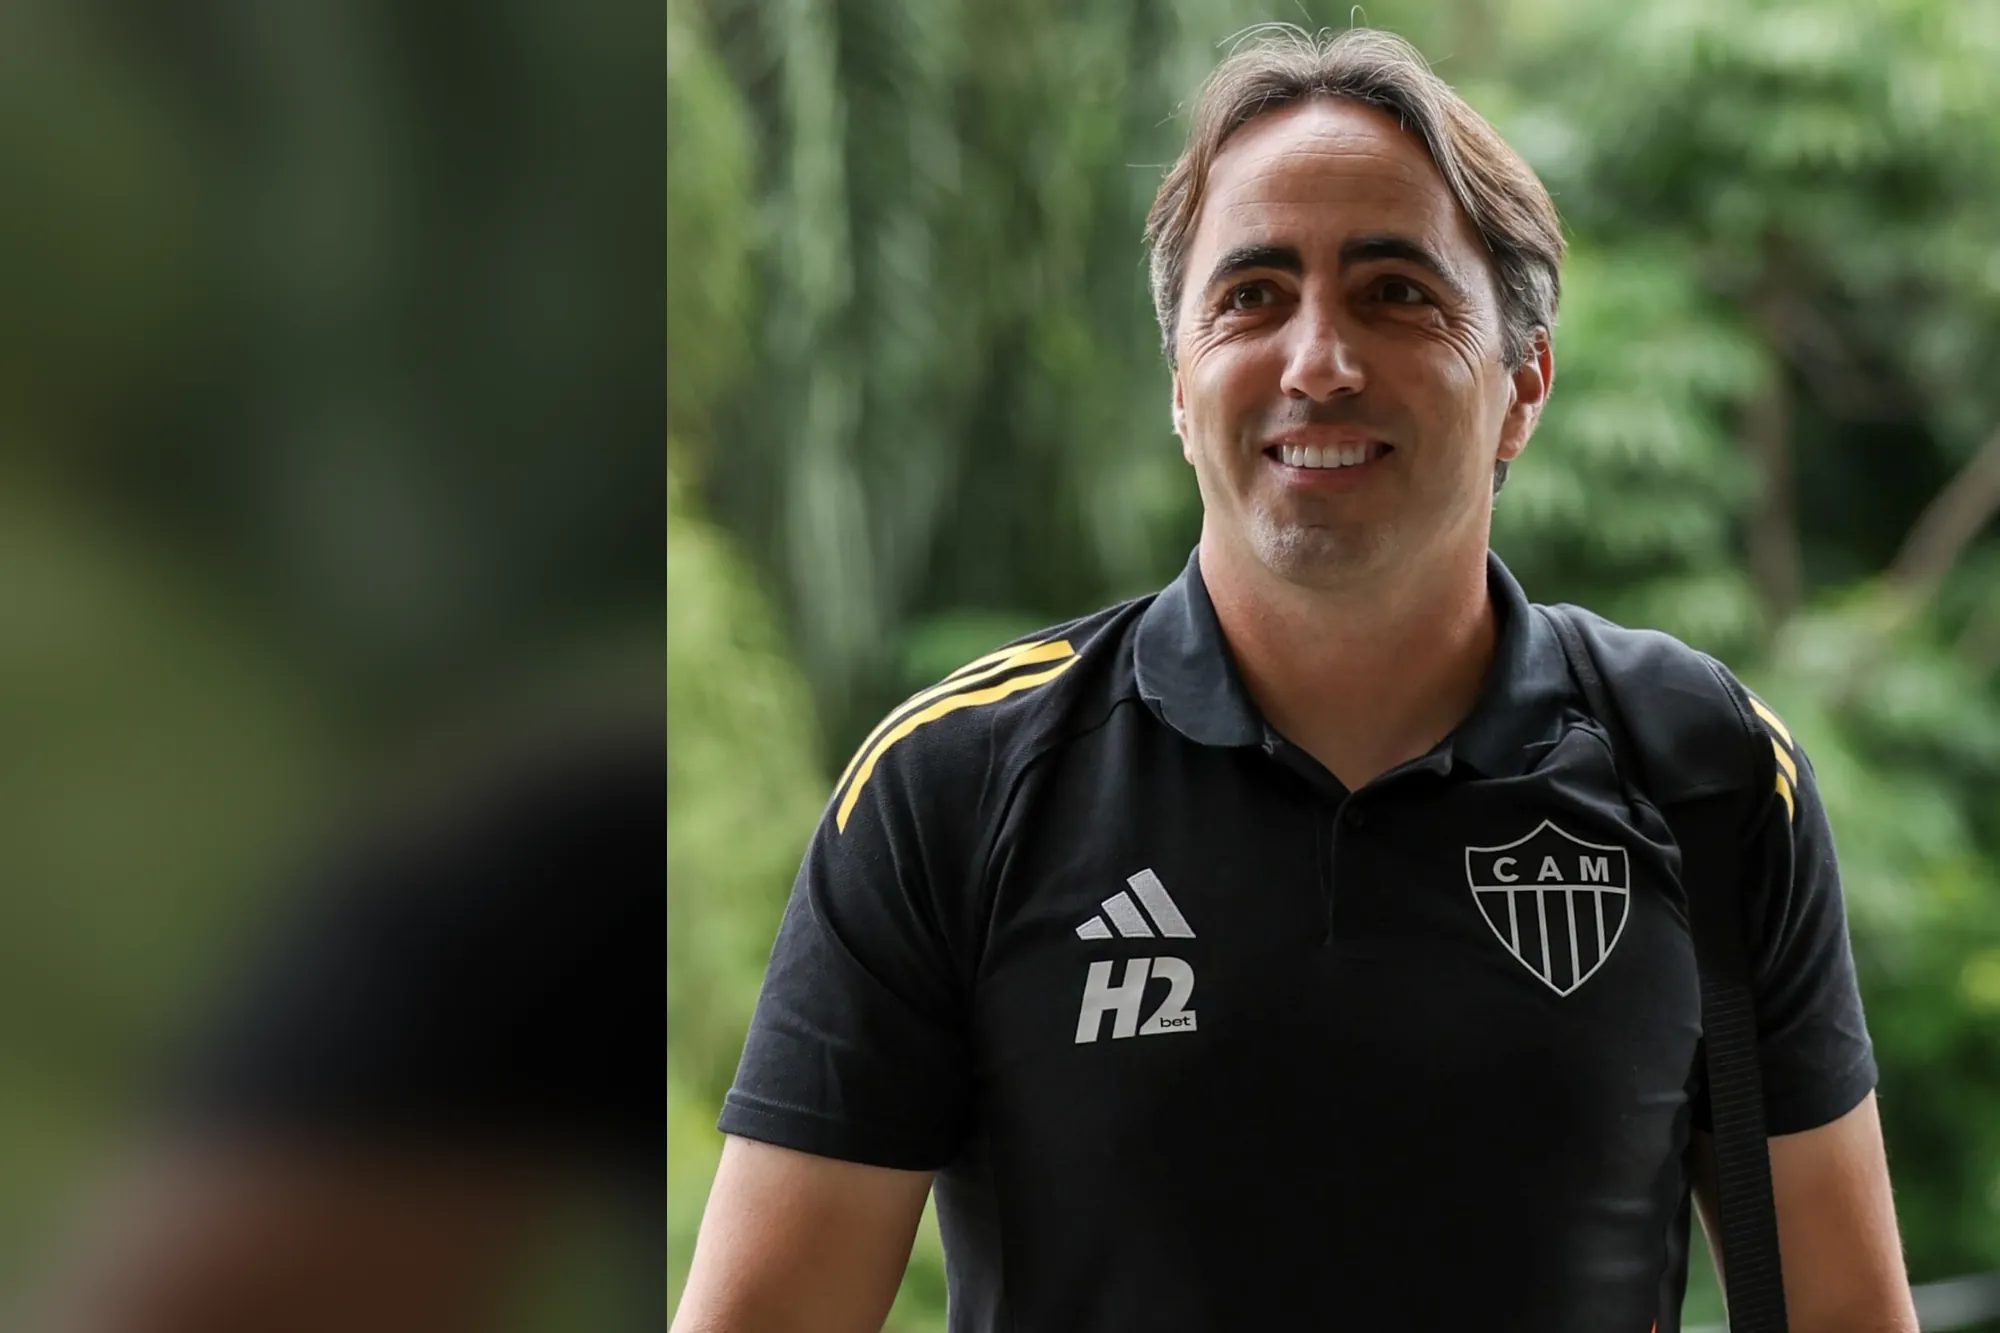
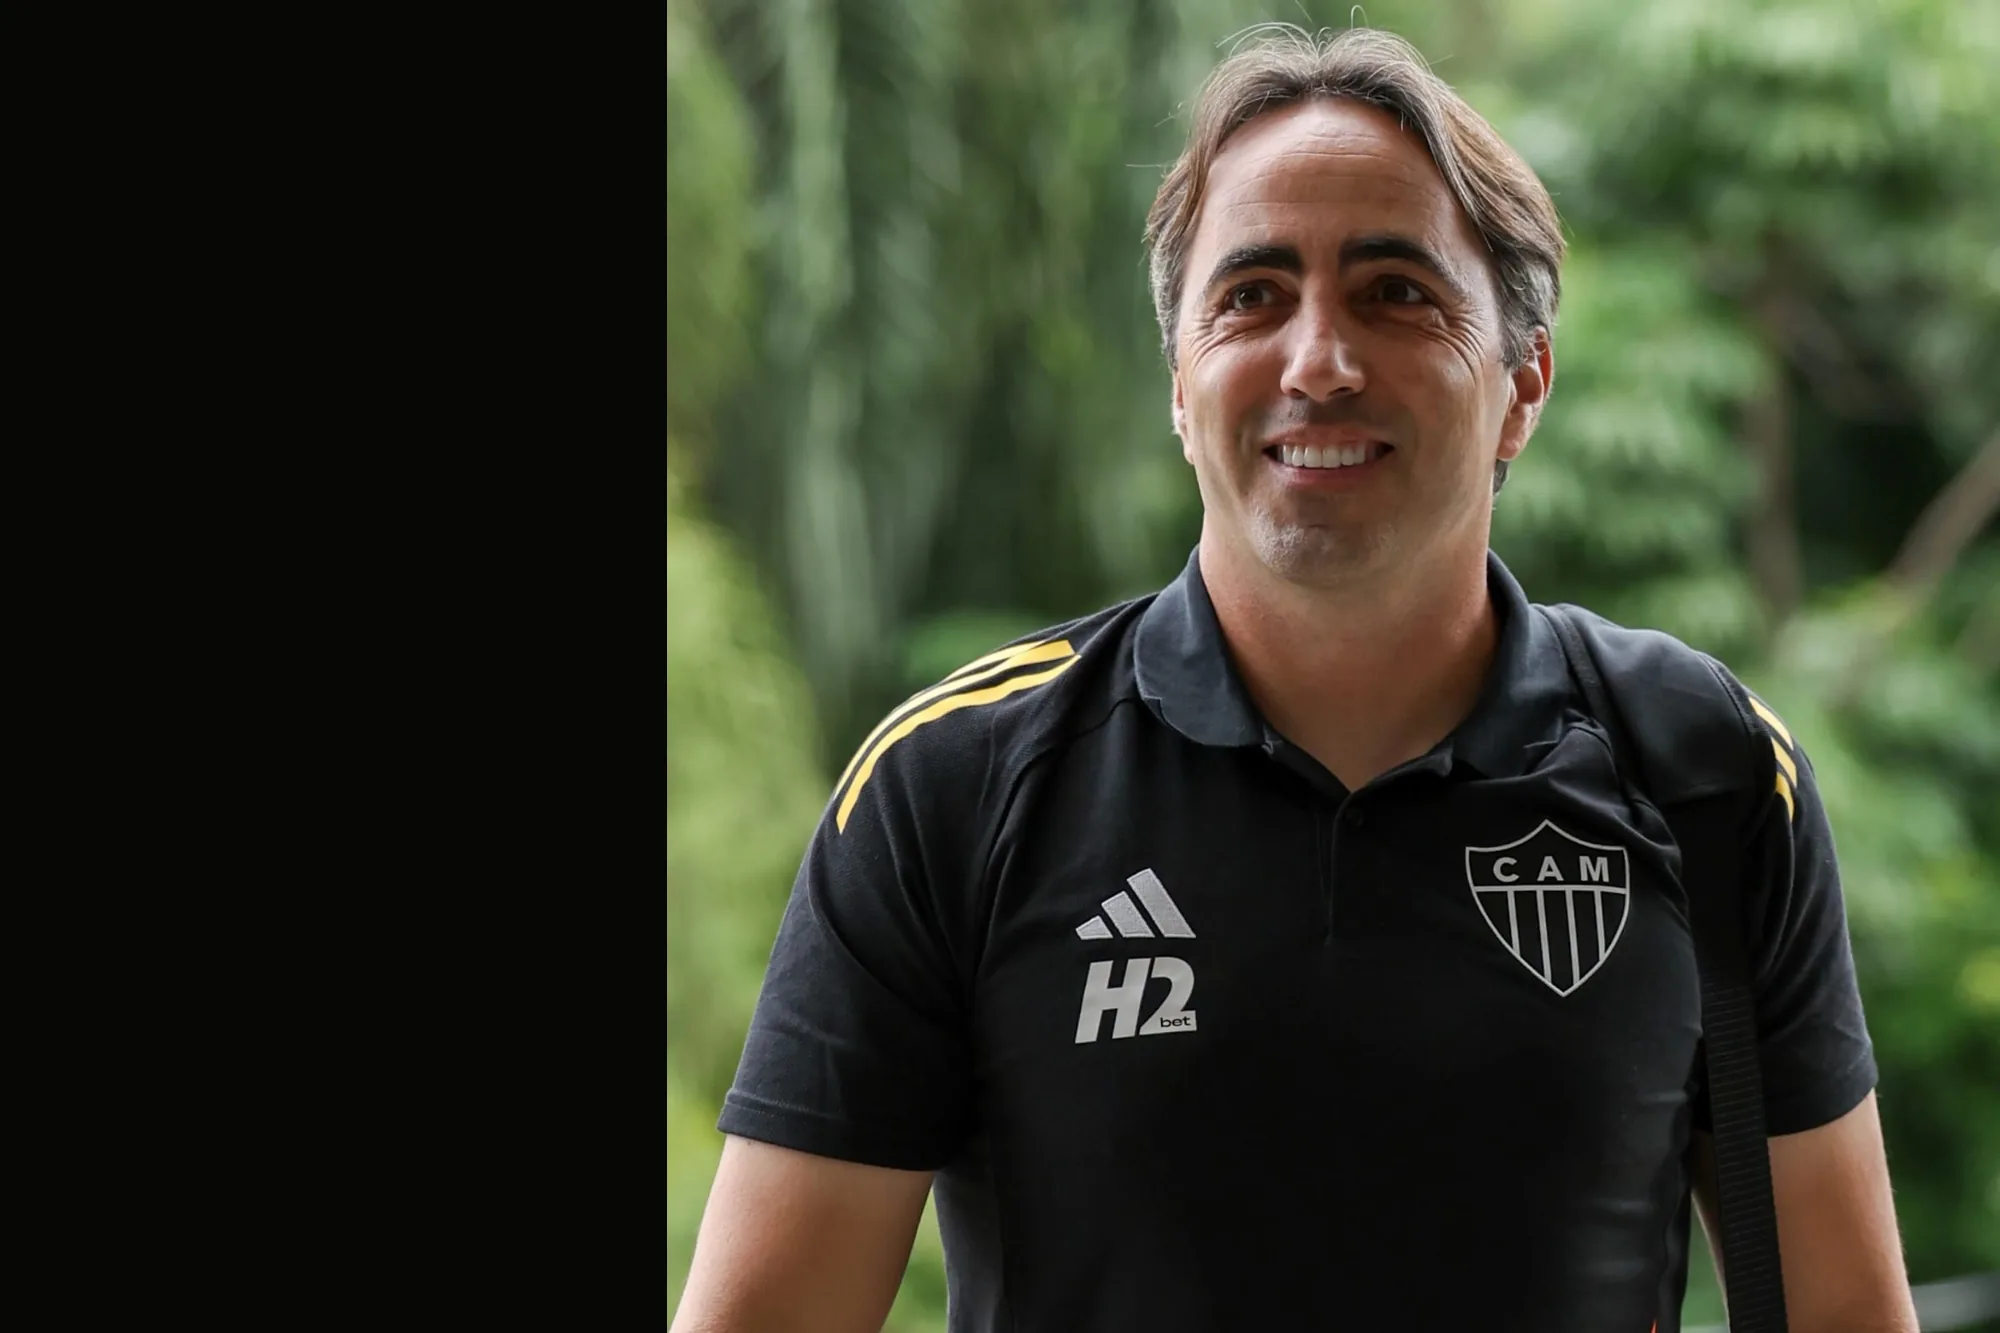
Dinâmicas da Linha de Defesa: título, checkout e hero
Checkout ligado em pay.kiwify.com.br/SA6esA2. A própria página de
pagamento confirmou o que estava pendente: o valor é mesmo R$ 147, o
parcelamento real é 12x de R$ 15,20 — não os R$ 14,78 herdados do outro
curso — e o nome oficial do produto é "Dinâmicas da Linha de Defesa |
Ações para elevar o desempenho". Título e subtítulo passam a bater com o
que o comprador vê no checkout. O aviso de pendência saiu.

Hero refeita na composição enviada: a foto encostada à direita e o resto
chapado no preto da página, em vez do #000 puro, para não existir emenda
contra o fundo do site.

A ordem das aulas segue a numeração dos vídeos, como pedido.

Changed region(s): [[0.0, 0.0, 0.341, 1.0]]

diff --git a/curso-linha-de-defesa.html b/curso-linha-de-defesa.html
@@ -4,7 +4,7 @@ if (!matchMedia('(prefers-reduced-motion: reduce)').matches) document.documentEl
 </script>
 <meta charset="utf-8">
 <meta name="viewport" content="width=device-width,initial-scale=1">
-<title>Linha de Defesa — A Sustentação do Modelo de Jogo</title>
+<title>Dinâmicas da Linha de Defesa — Ações para Elevar o Desempenho</title>
 
 <!--
   MODELO DE PÁGINA DE CURSO — trocar por curso:
@@ -27,15 +27,15 @@ if (!matchMedia('(prefers-reduced-motion: reduce)').matches) document.documentEl
 <meta property="og:site_name" content="TotalFut">
 <meta property="og:locale" content="pt_BR">
 <meta property="og:url" content="https://totalfut.com.br/curso-linha-de-defesa.html">
-<meta property="og:title" content="Linha de defesa — A sustentação do modelo de jogo">
-<meta property="og:description" content="Linha de defesa — A sustentação do modelo de jogo — com Leandro Zago, treinador e instrutor da CBF Academy">
+<meta property="og:title" content="Dinâmicas da linha de defesa — Ações para elevar o desempenho">
+<meta property="og:description" content="Dinâmicas da linha de defesa — Ações para elevar o desempenho — com Leandro Zago, treinador e instrutor da CBF Academy">
 <meta property="og:image" content="https://totalfut.com.br/assets/social/curso-linha-de-defesa.jpg">
 <meta property="og:image:width" content="800">
 <meta property="og:image:height" content="420">
 <meta property="og:image:alt" content="Fase defensiva — Aspectos para defender melhor — TotalFut">
 <meta name="twitter:card" content="summary_large_image">
-<meta name="twitter:title" content="Linha de defesa — A sustentação do modelo de jogo">
-<meta name="twitter:description" content="Linha de defesa — A sustentação do modelo de jogo — com Leandro Zago, treinador e instrutor da CBF Academy">
+<meta name="twitter:title" content="Dinâmicas da linha de defesa — Ações para elevar o desempenho">
+<meta name="twitter:description" content="Dinâmicas da linha de defesa — Ações para elevar o desempenho — com Leandro Zago, treinador e instrutor da CBF Academy">
 <meta name="twitter:image" content="https://totalfut.com.br/assets/social/curso-linha-de-defesa.jpg">
 
 <link rel="preconnect" href="https://fonts.googleapis.com">
@@ -1078,7 +1078,7 @@ footer.site .wrap{position:relative;z-index:1}
           <span class="formato">Gravado</span>
           <span class="formato formato--idioma">Português</span>
         </div>
-        <h1 class="entra" style="--atraso:.13s">Linha de <span class="giz">defesa<svg viewBox="0 0 200 16" preserveAspectRatio="none" aria-hidden="true"><path class="g1" pathLength="1" d="M4 10C40 5.6 82 4.4 122 5.6c27 .8 50 2.8 74 4.8"/><path class="g2" pathLength="1" d="M188 12.4C150 9.2 104 8.4 62 9.4c-19 .5-36 1.6-52 3"/></svg></span><span class="topo__sub">A sustentação do modelo de jogo</span></h1>
+        <h1 class="entra" style="--atraso:.13s">Dinâmicas da linha de <span class="giz">defesa<svg viewBox="0 0 200 16" preserveAspectRatio="none" aria-hidden="true"><path class="g1" pathLength="1" d="M4 10C40 5.6 82 4.4 122 5.6c27 .8 50 2.8 74 4.8"/><path class="g2" pathLength="1" d="M188 12.4C150 9.2 104 8.4 62 9.4c-19 .5-36 1.6-52 3"/></svg></span><span class="topo__sub">Ações para elevar o desempenho</span></h1>
         <p class="lede entra" style="--atraso:.21s;max-width:48ch;font-size:15.5px">Técnica individual de laterais e zagueiros, defesa do funil, controle da profundidade e a conexão com as outras linhas — em qualquer esquema.</p>
         <p class="topo__com entra" style="--atraso:.27s">com <b>Leandro Zago</b>, treinador e instrutor da CBF Academy</p>
 
@@ -1086,9 +1086,9 @@ footer.site .wrap{position:relative;z-index:1}
           <div class="oferta__linha">
             <div class="oferta__valor">
               <div class="oferta__preco"><b>R$ 147</b></div>
-              <span class="oferta__parcela">ou em até 12× de R$ 14,78</span>
+              <span class="oferta__parcela">ou em até 12× de R$ 15,20</span>
             </div>
-            <a class="btn btn--lime" href="#" id="ctaTopo" data-pendente="checkout">Comprar o curso</a>
+            <a class="btn btn--lime" href="https://pay.kiwify.com.br/SA6esA2" id="ctaTopo" target="_blank" rel="noopener">Comprar o curso</a>
           </div>
 
 
@@ -1224,13 +1224,6 @@ footer.site .wrap{position:relative;z-index:1}
     </div>
   </section>
 
-  <section style="padding-top:0">
-    <div class="wrap">
-      <p class="nota"><b>Pendente:</b> link de checkout e confirmação do valor. O preço exibido
-        (R$ 147) foi herdado do outro curso do Leandro Zago e precisa ser confirmado.</p>
-    </div>
-  </section>
-
   <!-- PROFESSOR -->
   <section>
     <div class="wrap prof">
@@ -1340,14 +1333,14 @@ footer.site .wrap{position:relative;z-index:1}
         <div class="oferta">
           <div class="oferta__valor" style="align-items:center">
             <div class="oferta__preco"><b>R$ 147</b></div>
-            <span class="oferta__parcela">ou em até 12× de R$ 14,78</span>
+            <span class="oferta__parcela">ou em até 12× de R$ 15,20</span>
           </div>
           <ul>
             <li><svg viewBox="0 0 16 16"><circle cx="8" cy="8" r="8"/><path d="M4.4 8.3l2.5 2.5L11.6 6"/></svg>Acesso imediato e doze meses de consulta</li>
             <li><svg viewBox="0 0 16 16"><circle cx="8" cy="8" r="8"/><path d="M4.4 8.3l2.5 2.5L11.6 6"/></svg>Certificado digital TotalFut, Coach Planner PRO e e-book</li>
             <li><svg viewBox="0 0 16 16"><circle cx="8" cy="8" r="8"/><path d="M4.4 8.3l2.5 2.5L11.6 6"/></svg>Grupo de alunos e entrada no TotalFut Connect</li>
           </ul>
-          <a class="btn btn--lime btn--full" href="#" data-pendente="checkout" target="_blank" rel="noopener">Comprar o curso</a>
+          <a class="btn btn--lime btn--full" href="https://pay.kiwify.com.br/SA6esA2" target="_blank" rel="noopener" target="_blank" rel="noopener">Comprar o curso</a>
           <div class="pagamentos">
             <img src="assets/formas-de-pagamento.webp" alt="Formas de pagamento: Kiwify, Pix, Visa, Mastercard, American Express, Hipercard, boleto e PayPal" loading="lazy" width="460" height="174">
           </div>
